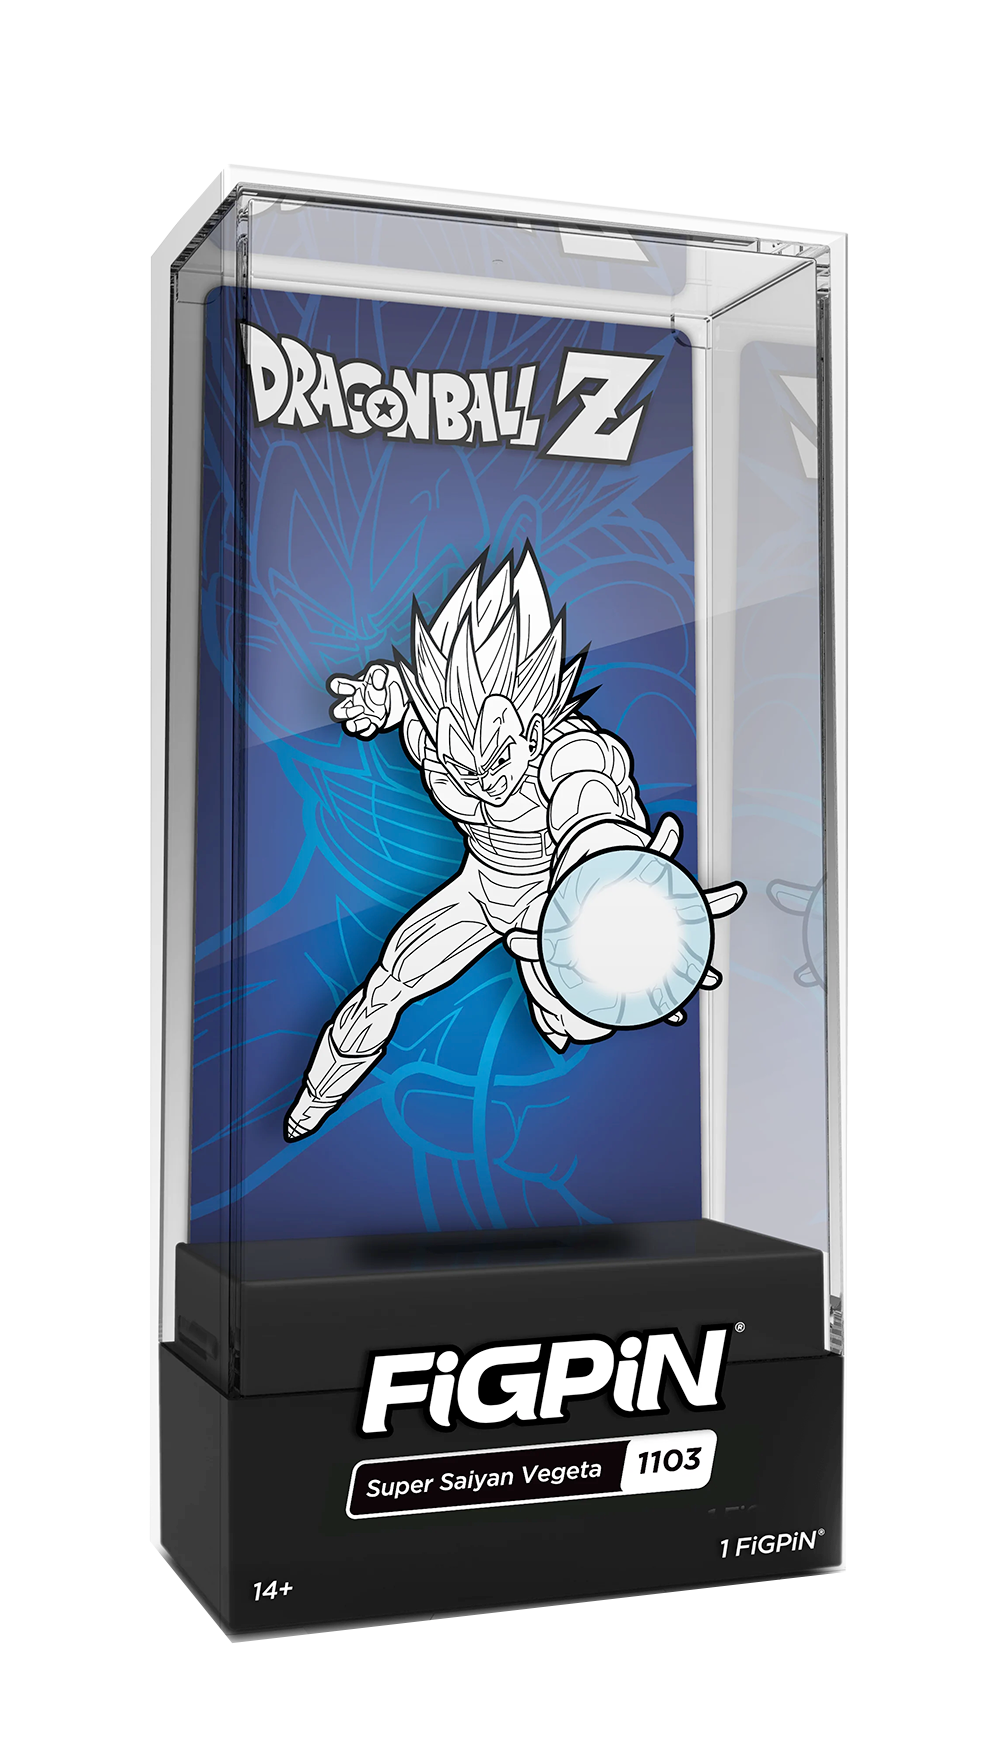
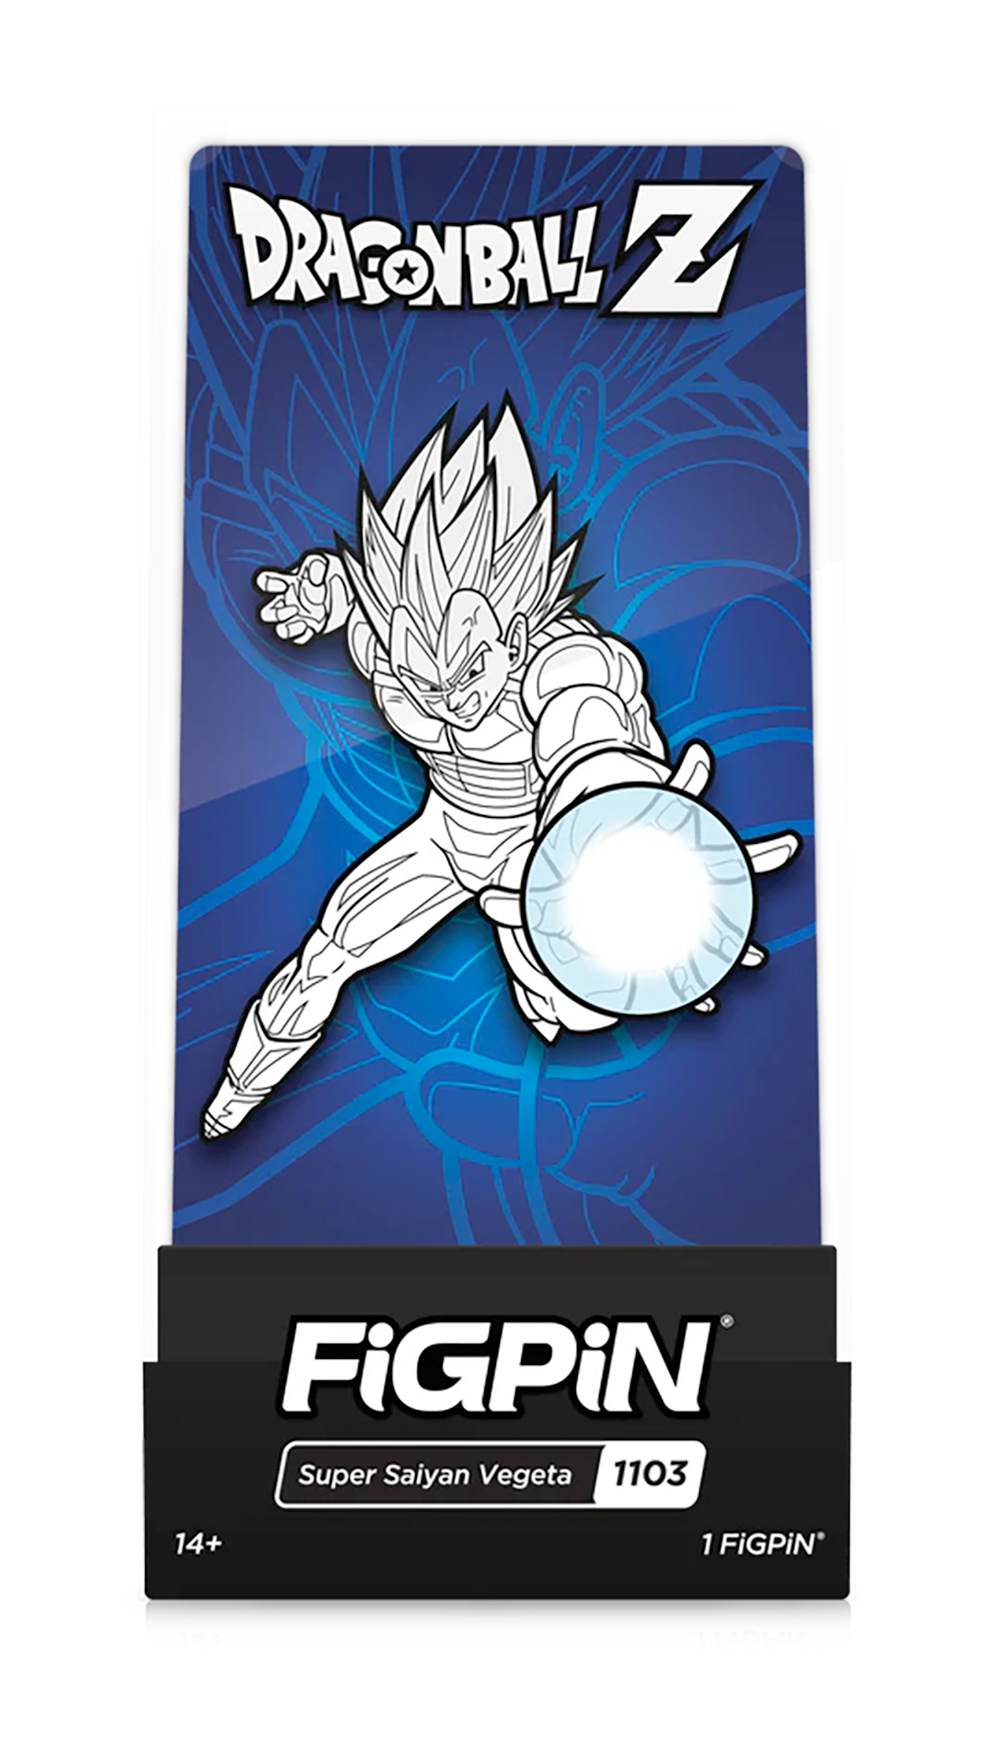
deadpool + spider-man

diff --git a/src/components/new-releases.js b/src/components/new-releases.js
@@ -16,6 +16,16 @@ function NewReleases() {
     <img className="pinlist-image" alt="945" src="http://s3.us-east-2.amazonaws.com/figpinimages/FigpinImage/db/d0/e4/8222/8222.ce68e513.png"/><div className="pinname">FiGPiN Exclusive</div></Link></div></li>
 <li className="gallerybox"><div className="pinbox"><Link to="/pinDetail/1102">
     <img className="pinlist-image" alt="1102" src="http://s3.us-east-2.amazonaws.com/figpinimages/FigpinImage/3c/5e/f1/8311/8311.ce68e513.png"/><div className="pinname">FiGPiN Exclusive</div></Link></div></li>
+    <li className="gallerybox"><div className="pinbox"><Link to="/pinDetail/1100">
+    <img className="pinlist-image" alt="1100" src="http://s3.us-east-2.amazonaws.com/figpinimages/FigpinImage/51/3a/d9/8227/8227.ce68e513.png"/><div className="pinname">FiGPiN Exclusive</div></Link></div></li>    
+    <li className="gallerybox"><div className="pinbox"><Link to="/pinDetail/1082">
+    <img className="pinlist-image" alt="1082" src="http://s3.us-east-2.amazonaws.com/figpinimages/FigpinImage/31/1e/4e/8316/8316.ce68e513.png"/><div className="pinname">FiGPiN Exclusive</div></Link></div></li>    
+    <li className="gallerybox"><div className="pinbox"><Link to="/pinDetail/972">
+    <img className="pinlist-image" alt="972" src="http://s3.us-east-2.amazonaws.com/figpinimages/FigpinImage/d4/da/ad/8466/8466.ce68e513.png"/><div className="pinname">FiGPiN Exclusive</div></Link></div></li>    
+    <li className="gallerybox"><div className="pinbox"><Link to="/pinDetail/904">
+    <img className="pinlist-image" alt="904" src="/904_img_url_med.png"/><div className="pinname">FiGPiN Exclusive</div></Link></div></li>    
+    <li className="gallerybox"><div className="pinbox"><Link to="/pinDetail/921">
+    <img className="pinlist-image" alt="921" src="/921_img_url_med.png"/><div className="pinname">FiGPiN Exclusive</div></Link></div></li>    
 </ul>
 
 <ul className="gallery mw-gallery-traditional-left">
@@ -29,7 +39,7 @@ function NewReleases() {
 <li className="gallerybox"><div className="pinbox"><Link to="/pinDetail/1012">
     <img className="pinlist-image" alt="1012" src="http://s3.us-east-2.amazonaws.com/figpinimages/FigpinImage/3e/65/c1/8341/8341.ce68e513.png"/><div className="pinname">eVend Exclusive</div></Link></div></li>        
 <li className="gallerybox"><div className="pinbox"><Link to="/pinDetail/1103">
-    <img className="pinlist-image" alt="1103" src="/1103_img_url_med.png"/><div className="pinname">Chalice Collectibles Exclusive</div></Link></div></li>    
+    <img className="pinlist-image" alt="1103" src="http://s3.us-east-2.amazonaws.com/figpinimages/FigpinImage/6b/da/49/8306/8306.ce68e513.png"/><div className="pinname">Chalice Collectibles Exclusive</div></Link></div></li>    
 </ul>
 
 <ul className="gallery mw-gallery-traditional-left">

diff --git a/src/components/global-nav.js b/src/components/global-nav.js
@@ -59,7 +59,7 @@ function GlobalNav() {
               <li><a className="dropdown-item" href="/property/One Punch Man">One Punch Man</a></li>
               <li><a className="dropdown-item" href="/property/Sailor Moon">Sailor Moon</a></li>
               <li><a className="dropdown-item" href="/property/The Seven Deadly Sins">The Seven Deadly Sins</a></li>
-              
+              <li><a className="dropdown-item" href="/property/Yu-Gi-Oh">Yu-Gi-Oh</a></li>
               </ul>
             </li>     
  

diff --git a/src/components/home.js b/src/components/home.js
@@ -161,6 +161,9 @@ function Home() {
     <li className="gallerybox">
         <Link title="WWE" to="/licensor/WWE"><img alt="WWE" className="where-image" src="logo_wwe.png"/></Link>
     </li>    
+    <li className="gallerybox">
+        <Link title="Yu-Gi-Oh" to="/property/Yu-Gi-Oh"><img alt="Yu-Gi-Oh" className="where-image" src="logo_yugioh.png"/></Link>
+    </li>    
     </ul>
     <div className="home-category">Event Exclusives</div>
     <ul className="gallery mw-gallery-traditional">
